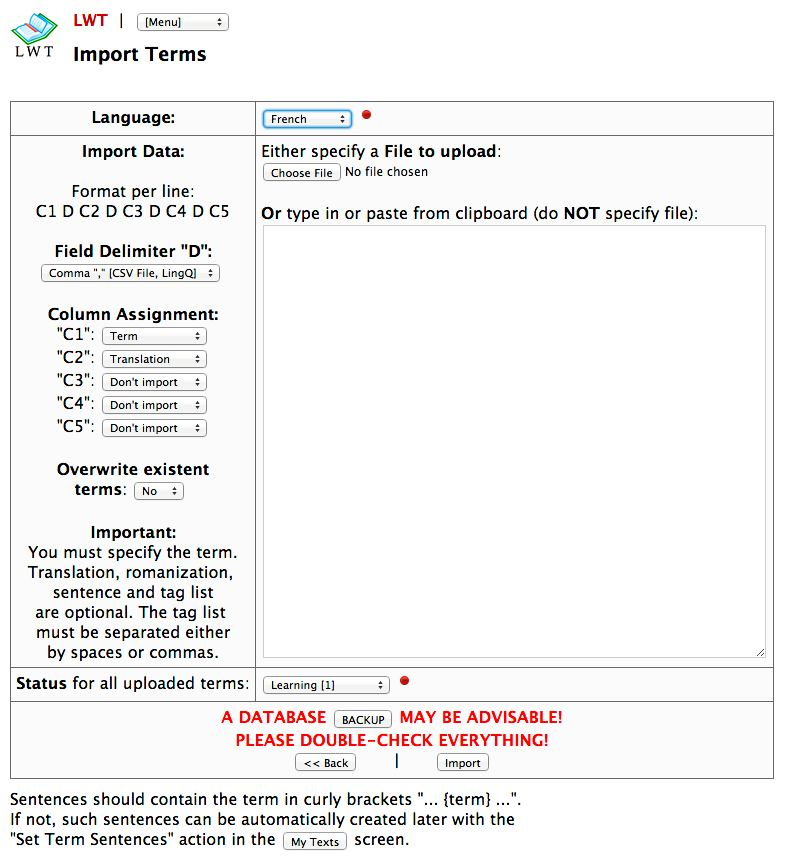
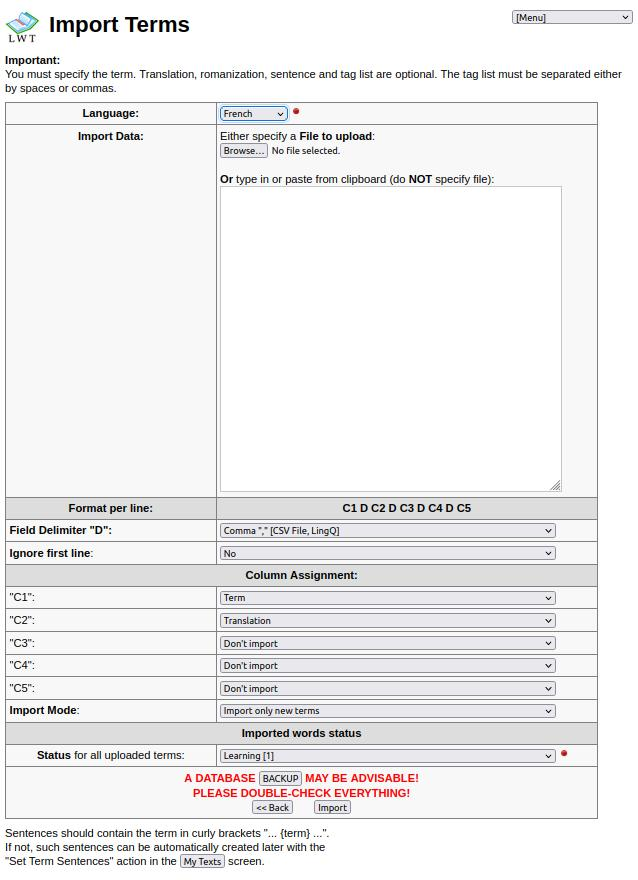
Updates terms upload screenshot.

Changed region(s): [[0.0, 0.0, 0.9828, 1.0], [0.0596, 0.3641, 0.268, 0.5158], [0.8041, 0.0, 1.0, 0.0303]]

diff --git a/docs/info.html b/docs/info.html
@@ -1844,7 +1844,7 @@ For git tags, official releases are marked like "v1.0.0", while unofficial ones 
 <h3>[Unreleased]</h3>
 <h4>Changed</h4>
 <ul>
-<li>Updated some documentation screenshots such as the home screen, the language edition.</li>
+<li>Updated some documentation screenshots: home screen, language edition and terms upload.</li>
 </ul>
 <h4>Fixed</h4>
 <ul>

diff --git a/docs/CHANGELOG.md b/docs/CHANGELOG.md
@@ -7,7 +7,7 @@ For git tags, official releases are marked like "v1.0.0", while unofficial ones 
 
 ### Changed
 
-* Updated some documentation screenshots such as the home screen, the language edition.
+* Updated some documentation screenshots: home screen, language edition and terms upload.
 
 ### Fixed
 
